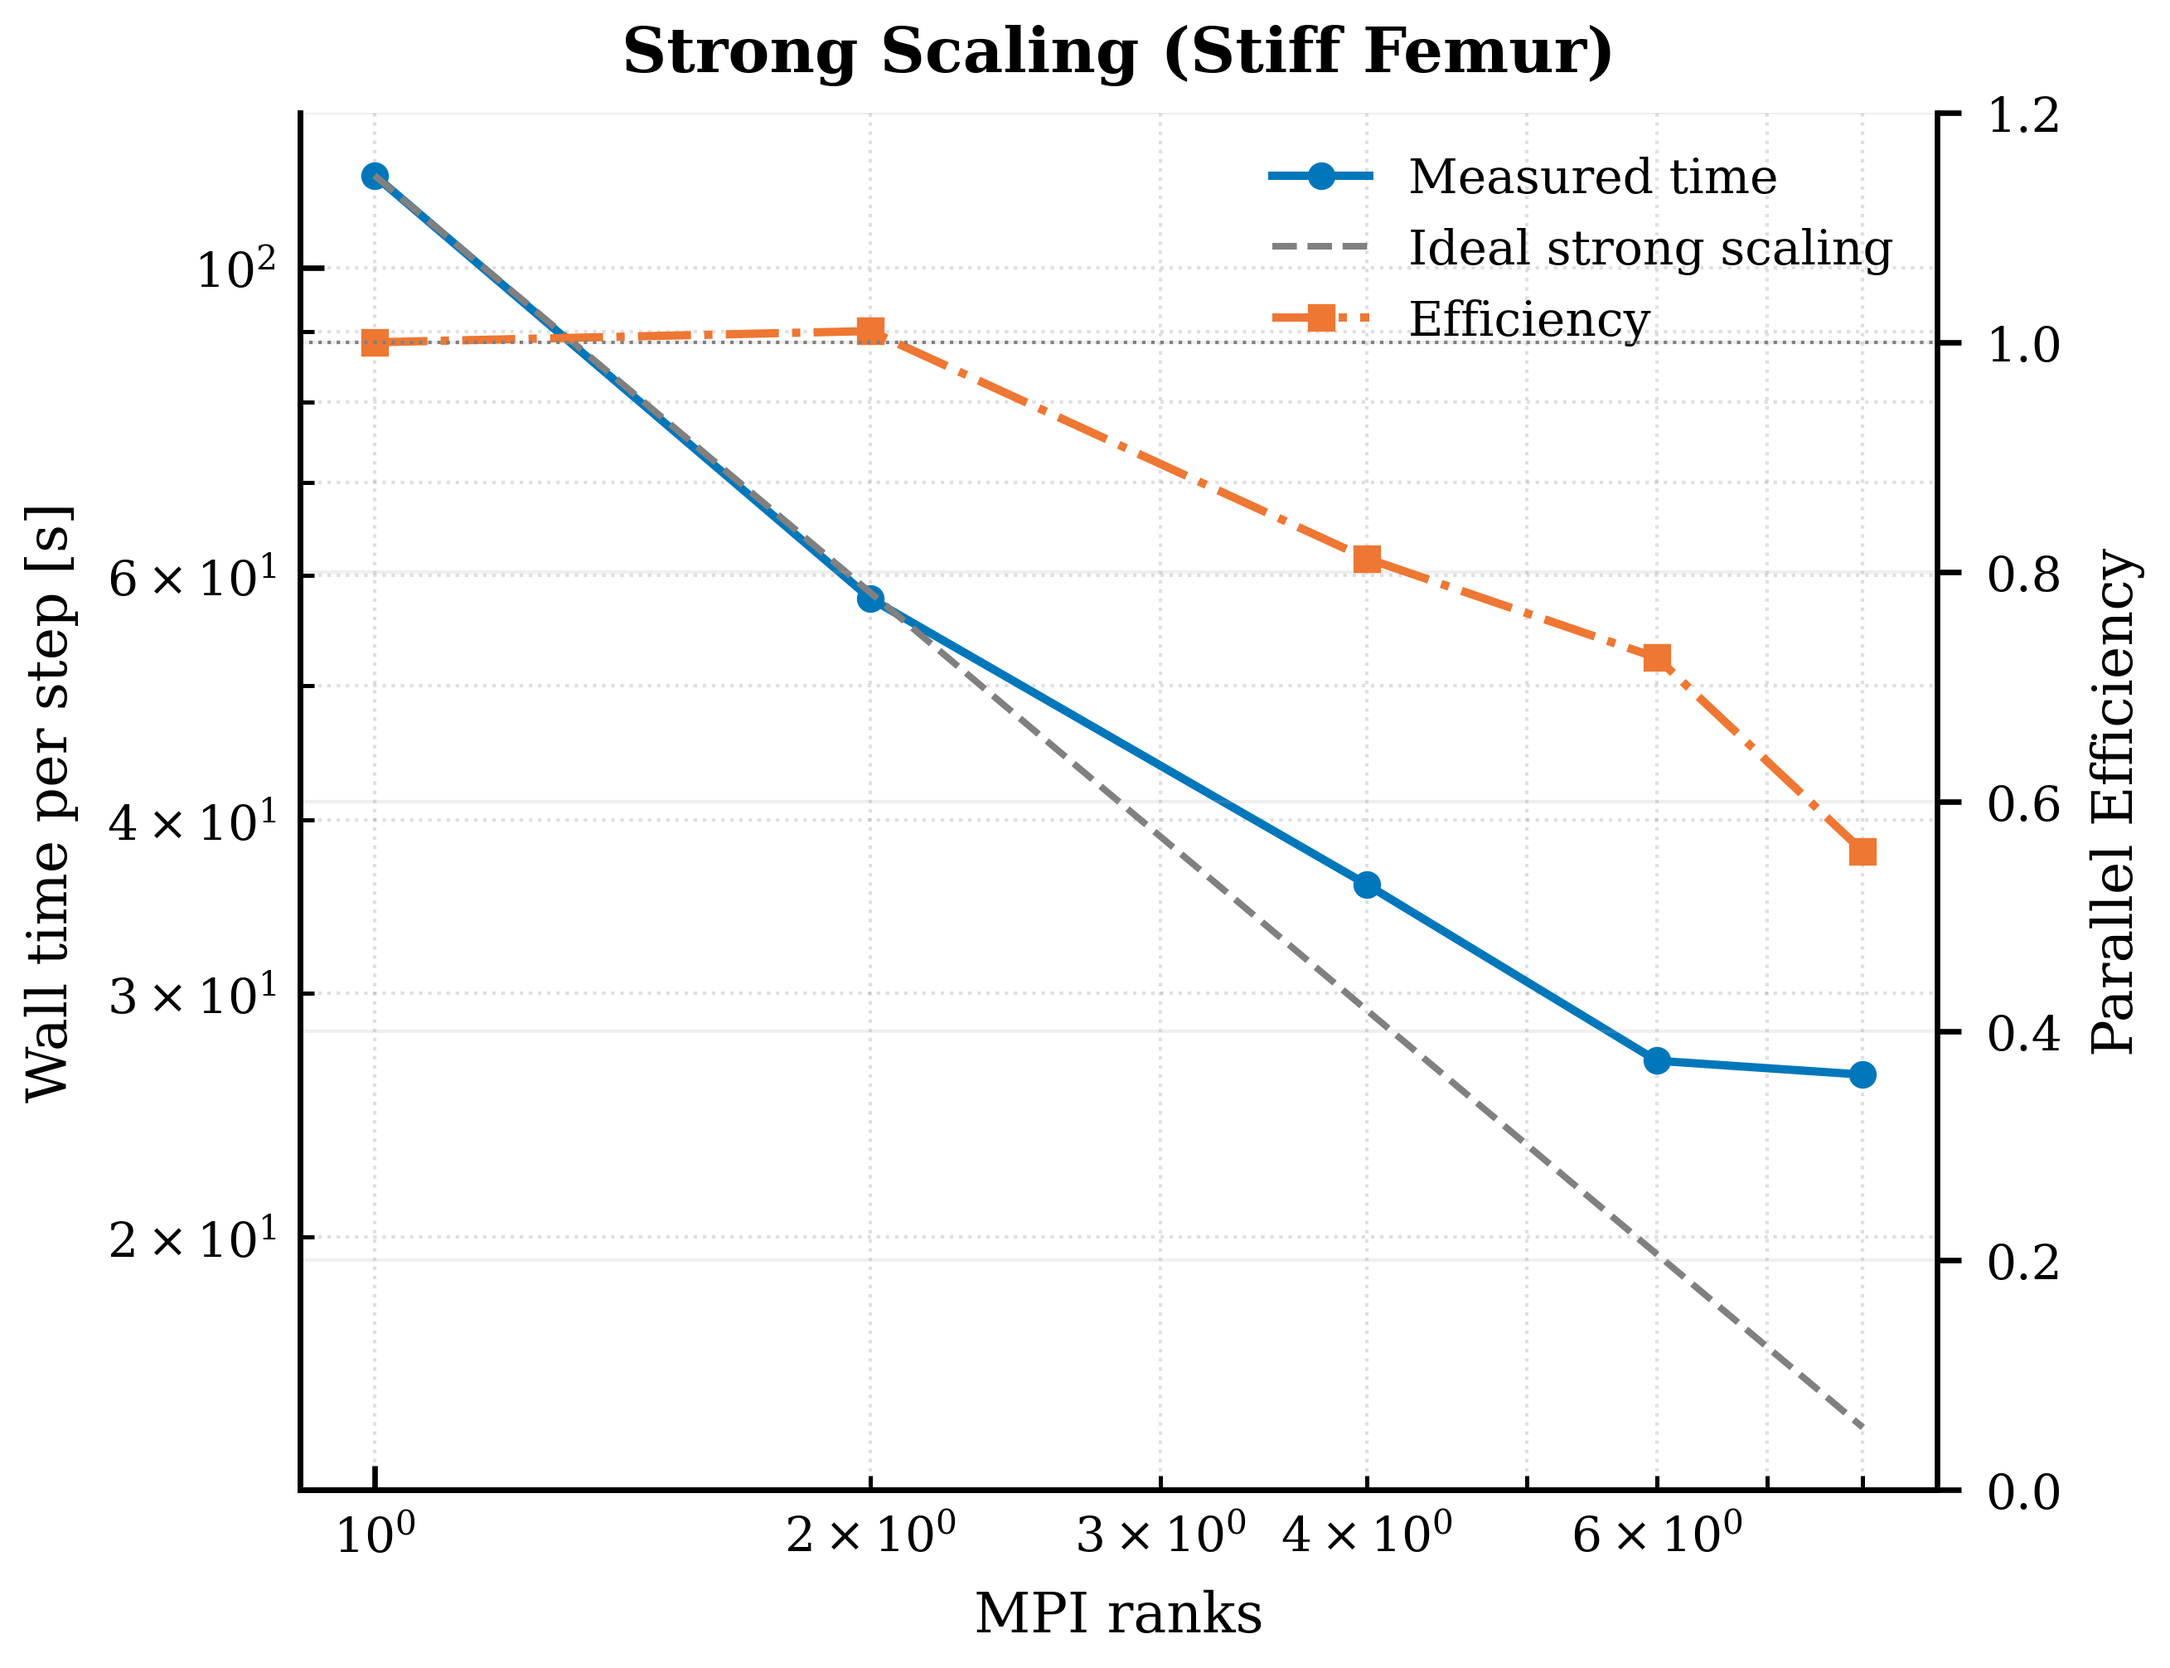
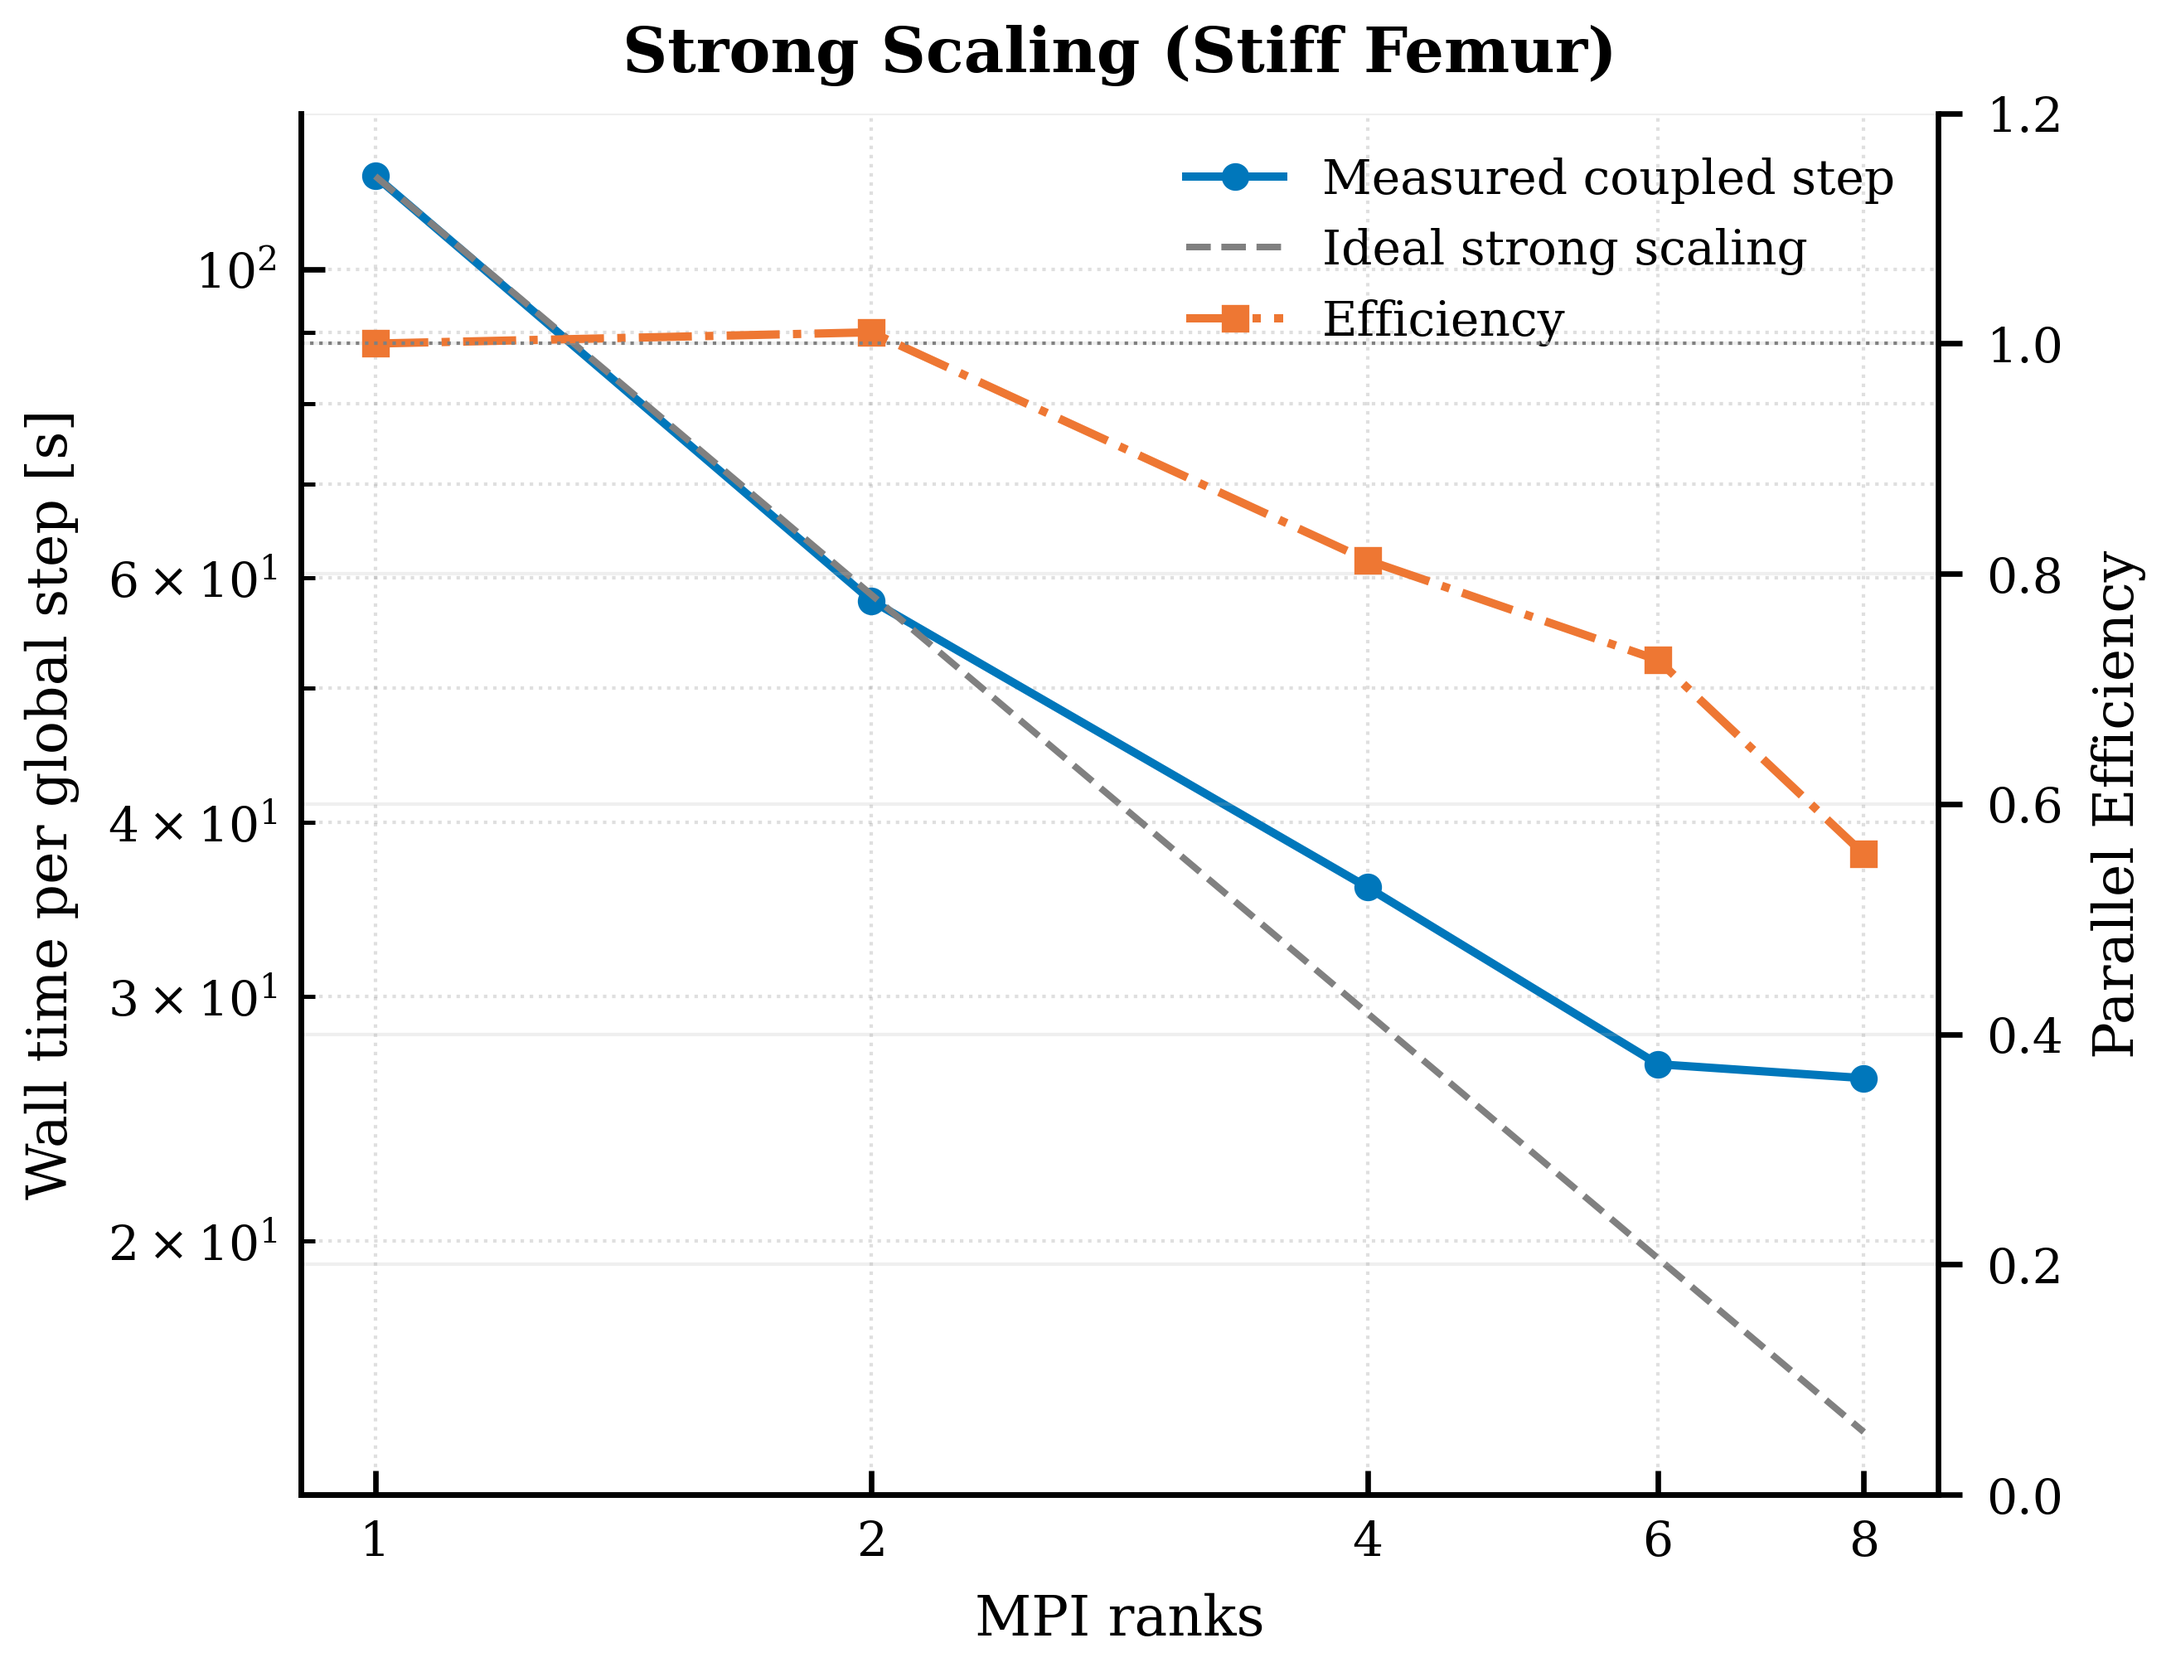
Refactor: Update strong scaling plot and related documentation for clarity and accuracy

diff --git a/run_weak_scaling.py b/run_weak_scaling.py
@@ -10,8 +10,7 @@ Usage:
     mpirun -n 4 python run_weak_scaling.py
 
 Outputs:
-    results/scaling/scaling.csv
-    results/scaling/scaling_meta.json
+    results/scaling_stiff/scaling.csv
 """
 
 from __future__ import annotations
@@ -51,6 +50,9 @@ class BenchmarkResult:
     cells_global: int
     dofs_dens: int
     dofs_mech: int
+    dofs_stim: int
+    dofs_fabric: int
+    dofs_total: int
     steps_measured: int
     t_avg_step_s: float
     t_setup_s: float
@@ -82,9 +84,65 @@ def _mkdir_mpi(path: Path, comm: MPI.Comm) -> None:
 
 def _write_csv_row(path: Path, row: dict[str, Any]) -> None:
     path.parent.mkdir(parents=True, exist_ok=True)
+    fieldnames = list(row.keys())
+
+    def _rewrite_with_new_header(existing_fieldnames: list[str]) -> None:
+        with open(path, newline="", encoding="utf-8") as f:
+            reader = csv.DictReader(f)
+            existing_rows = list(reader)
+
+        # Best-effort backfill of newly introduced DOF columns.
+        for existing_row in existing_rows:
+            if "dofs_stim" not in existing_row or existing_row["dofs_stim"] == "":
+                existing_row["dofs_stim"] = existing_row.get("dofs_dens", "")
+
+            try:
+                dofs_dens = int(existing_row.get("dofs_dens", ""))
+                dofs_mech = int(existing_row.get("dofs_mech", ""))
+            except (TypeError, ValueError):
+                dofs_dens = 0
+                dofs_mech = 0
+
+            gdim = 0
+            if dofs_dens > 0 and dofs_mech % dofs_dens == 0:
+                gdim = dofs_mech // dofs_dens
+
+            if "dofs_fabric" not in existing_row or existing_row["dofs_fabric"] == "":
+                existing_row["dofs_fabric"] = str(dofs_dens * gdim * gdim) if gdim else ""
+
+            if "dofs_total" not in existing_row or existing_row["dofs_total"] == "":
+                try:
+                    dofs_stim = int(existing_row.get("dofs_stim", ""))
+                    dofs_fabric = int(existing_row.get("dofs_fabric", ""))
+                except (TypeError, ValueError):
+                    dofs_stim = 0
+                    dofs_fabric = 0
+                existing_row["dofs_total"] = str(dofs_mech + dofs_dens + dofs_stim + dofs_fabric)
+
+        with open(path, "w", newline="", encoding="utf-8") as f:
+            writer = csv.DictWriter(f, fieldnames=fieldnames)
+            writer.writeheader()
+            for existing_row in existing_rows:
+                writer.writerow({k: existing_row.get(k, "") for k in fieldnames})
+
+    if path.exists():
+        with open(path, newline="", encoding="utf-8") as f:
+            reader = csv.reader(f)
+            existing_fieldnames = next(reader, [])
+
+        if existing_fieldnames != fieldnames:
+            if set(existing_fieldnames).issubset(fieldnames):
+                _rewrite_with_new_header(existing_fieldnames)
+            else:
+                raise ValueError(
+                    f"Existing CSV header does not match expected schema: {path}\n"
+                    f"  existing: {existing_fieldnames}\n"
+                    f"  expected: {fieldnames}"
+                )
+
     exists = path.exists()
     with open(path, "a", newline="", encoding="utf-8") as f:
-        writer = csv.DictWriter(f, fieldnames=list(row.keys()))
+        writer = csv.DictWriter(f, fieldnames=fieldnames)
         if not exists:
             writer.writeheader()
         writer.writerow(row)
@@ -94,7 +152,7 @@ def parse_args() -> argparse.Namespace:
     p = argparse.ArgumentParser(description=__doc__)
     p.add_argument("--config", type=str, default="stiff_params_femur.json", help="Parameter file.")
     p.add_argument("--steps", type=int, default=2, help="Number of time steps to measure.")
-    p.add_argument("--outdir", type=str, default="results/scaling", help="Output directory.")
+    p.add_argument("--outdir", type=str, default="results/scaling_stiff", help="Output directory.")
     return p.parse_args()
 
 
@@ -146,14 +204,23 @@ def main() -> None:
     cells_global = mesh.topology.index_map(tdim).size_global
     
     # Estimate DOFs (approximated, as actual FunctionSpaces are inside Solver)
-    # Density is scalar P1, Mech is vector P1
+    # Density/stimulus are scalar P1, Mech is vector P1, Fabric is tensor P1.
+    gdim = mesh.geometry.dim
     n_nodes = mesh.topology.index_map(0).size_global
     dofs_dens = n_nodes
-    dofs_mech = n_nodes * 3
+    dofs_mech = n_nodes * gdim
+    dofs_stim = n_nodes
+    dofs_fabric = n_nodes * gdim * gdim
+    dofs_total = dofs_mech + dofs_dens + dofs_stim + dofs_fabric
 
     if rank == 0:
         print(f"Setup complete in {t_setup:.2f}s")
-        print(f"Mesh: {cells_global} cells, ~{dofs_mech} mech DOFs")
+        print(
+            "Mesh:"
+            f" {cells_global} cells,"
+            f" ~{dofs_total} DOFs total"
+            f" (u:{dofs_mech}, rho:{dofs_dens}, S:{dofs_stim}, L:{dofs_fabric})"
+        )
         print(f"Running {args.steps} steps...")
 
     # 2. Run Benchmark
@@ -181,6 +248,9 @@ def main() -> None:
         cells_global=cells_global,
         dofs_dens=dofs_dens,
         dofs_mech=dofs_mech,
+        dofs_stim=dofs_stim,
+        dofs_fabric=dofs_fabric,
+        dofs_total=dofs_total,
         steps_measured=args.steps,
         t_avg_step_s=avg_step_time,
         t_setup_s=t_setup,

diff --git a/manuscript/sections/reproducibility.tex b/manuscript/sections/reproducibility.tex
@@ -24,12 +24,13 @@ Adding a new field to the staggered scheme requires only (i) defining the new \t
 All simulations are MPI-parallel and require no shared-memory assumptions.
 For parameter studies we additionally support concurrent execution of multiple independent runs by splitting \texttt{MPI\_COMM\_WORLD} into subcommunicators (see \texttt{parametrizer.py}), enabling both strong scaling (single large run) and throughput scaling (many runs in parallel).
 To document parallel performance, we include a strong scaling benchmark on the stiff femur case study (see \texttt{run\_weak\_scaling.py}).
-Executing the fully coupled solver on this representative mesh (approx.~75k elements, 40k mechanics DOFs) demonstrates super-linear scaling up to 2 cores and maintains 56\% efficiency at 8 cores (speedup $4.45\times$), confirming that the partitioned solver effectively utilizes workstation-level parallelism even for moderate problem sizes (\cref{fig:strong_scaling}).
+We measure the wall-clock time per \emph{global} time step of the fully coupled multiphysics solve, including all four staggered blocks (mechanics, fabric, stimulus, density) and their fixed-point coupling iterations.
+On this representative mesh ($N_{\mathrm{cells}}\approx 75\mathrm{k}$; see caption for DOF breakdown) the solver shows a slight super-linear speedup from 1 to 2 MPI ranks (likely due to cache effects) and maintains 56\% parallel efficiency at 8 ranks (speedup $4.45\times$), despite the modest problem size per rank (\cref{fig:strong_scaling}).
 
 \begin{figure}[htbp]
     \centering
     \safeincludegraphics[width=0.6\linewidth]{strong_scaling.png}
-    \caption{Strong scaling of the coupled bone remodeling solver on the stiff femur configuration ($N_{\mathrm{cells}}\approx 75\mathrm{k}$, $N_{\mathrm{dofs}}^{\mathrm{mech}}\approx 40\mathrm{k}$). The solver achieves super-linear speedup at 2 cores (likely due to cache effects) and scales with reasonable efficiency up to 8 cores despite the relatively small problem size per core.}
+    \caption{Strong scaling of the fully coupled bone remodeling solver (mechanics + fabric + stimulus + density) on the stiff femur configuration ($N_{\mathrm{cells}}\approx 75\mathrm{k}$, $N_{\mathrm{dofs}}^{u}\approx 40\mathrm{k}$, $N_{\mathrm{dofs}}^{\rho}\approx 13\mathrm{k}$, $N_{\mathrm{dofs}}^{S}\approx 13\mathrm{k}$, $N_{\mathrm{dofs}}^{L}\approx 121\mathrm{k}$). Wall time is measured per global time step; the dashed line indicates ideal scaling $T(N)=T(1)/N$ and efficiency is $E(N)=T(1)/(N\,T(N))$.}
     \label{fig:strong_scaling}
 \end{figure}
 

diff --git a/analysis/strong_scaling_plot.py b/analysis/strong_scaling_plot.py
@@ -19,7 +19,7 @@ if str(project_root) not in sys.path:
 import numpy as np
 import pandas as pd
 import matplotlib.pyplot as plt
-from matplotlib.ticker import FuncFormatter
+from matplotlib.ticker import FuncFormatter, NullFormatter, NullLocator
 
 from analysis.plot_utils import (
     PUBLICATION_DPI,
@@ -85,21 +85,22 @@ def main() -> None:
 
     # Left axis: Time
     ax.loglog(ranks, times, marker="o", color=COLORS["blue"], 
-              label="Measured time", linewidth=PLOT_LINEWIDTH, markersize=PLOT_MARKERSIZE)
+              label="Measured coupled step", linewidth=PLOT_LINEWIDTH, markersize=PLOT_MARKERSIZE)
     ax.loglog(ranks, ideal_times, linestyle="--", color="gray", 
               label="Ideal strong scaling", linewidth=PLOT_LINEWIDTH * 0.8)
     
-    ax.set_xticks(ranks)
-    ax.get_xaxis().set_major_formatter(FuncFormatter(lambda val, _: f"{int(val)}"))
-    ax.minorticks_off()
-
     setup_axis_style(
         ax,
         xlabel="MPI ranks",
-        ylabel="Wall time per step [s]",
+        ylabel="Wall time per global step [s]",
         title="Strong Scaling (Stiff Femur)",
         loglog=True,
     )
+
+    ax.set_xticks(ranks)
+    ax.get_xaxis().set_major_formatter(FuncFormatter(lambda val, _: f"{int(val)}"))
+    ax.get_xaxis().set_minor_locator(NullLocator())
+    ax.get_xaxis().set_minor_formatter(NullFormatter())
 
     # Right axis: Efficiency - need to enable right spine for twinx
     ax2 = ax.twinx()
